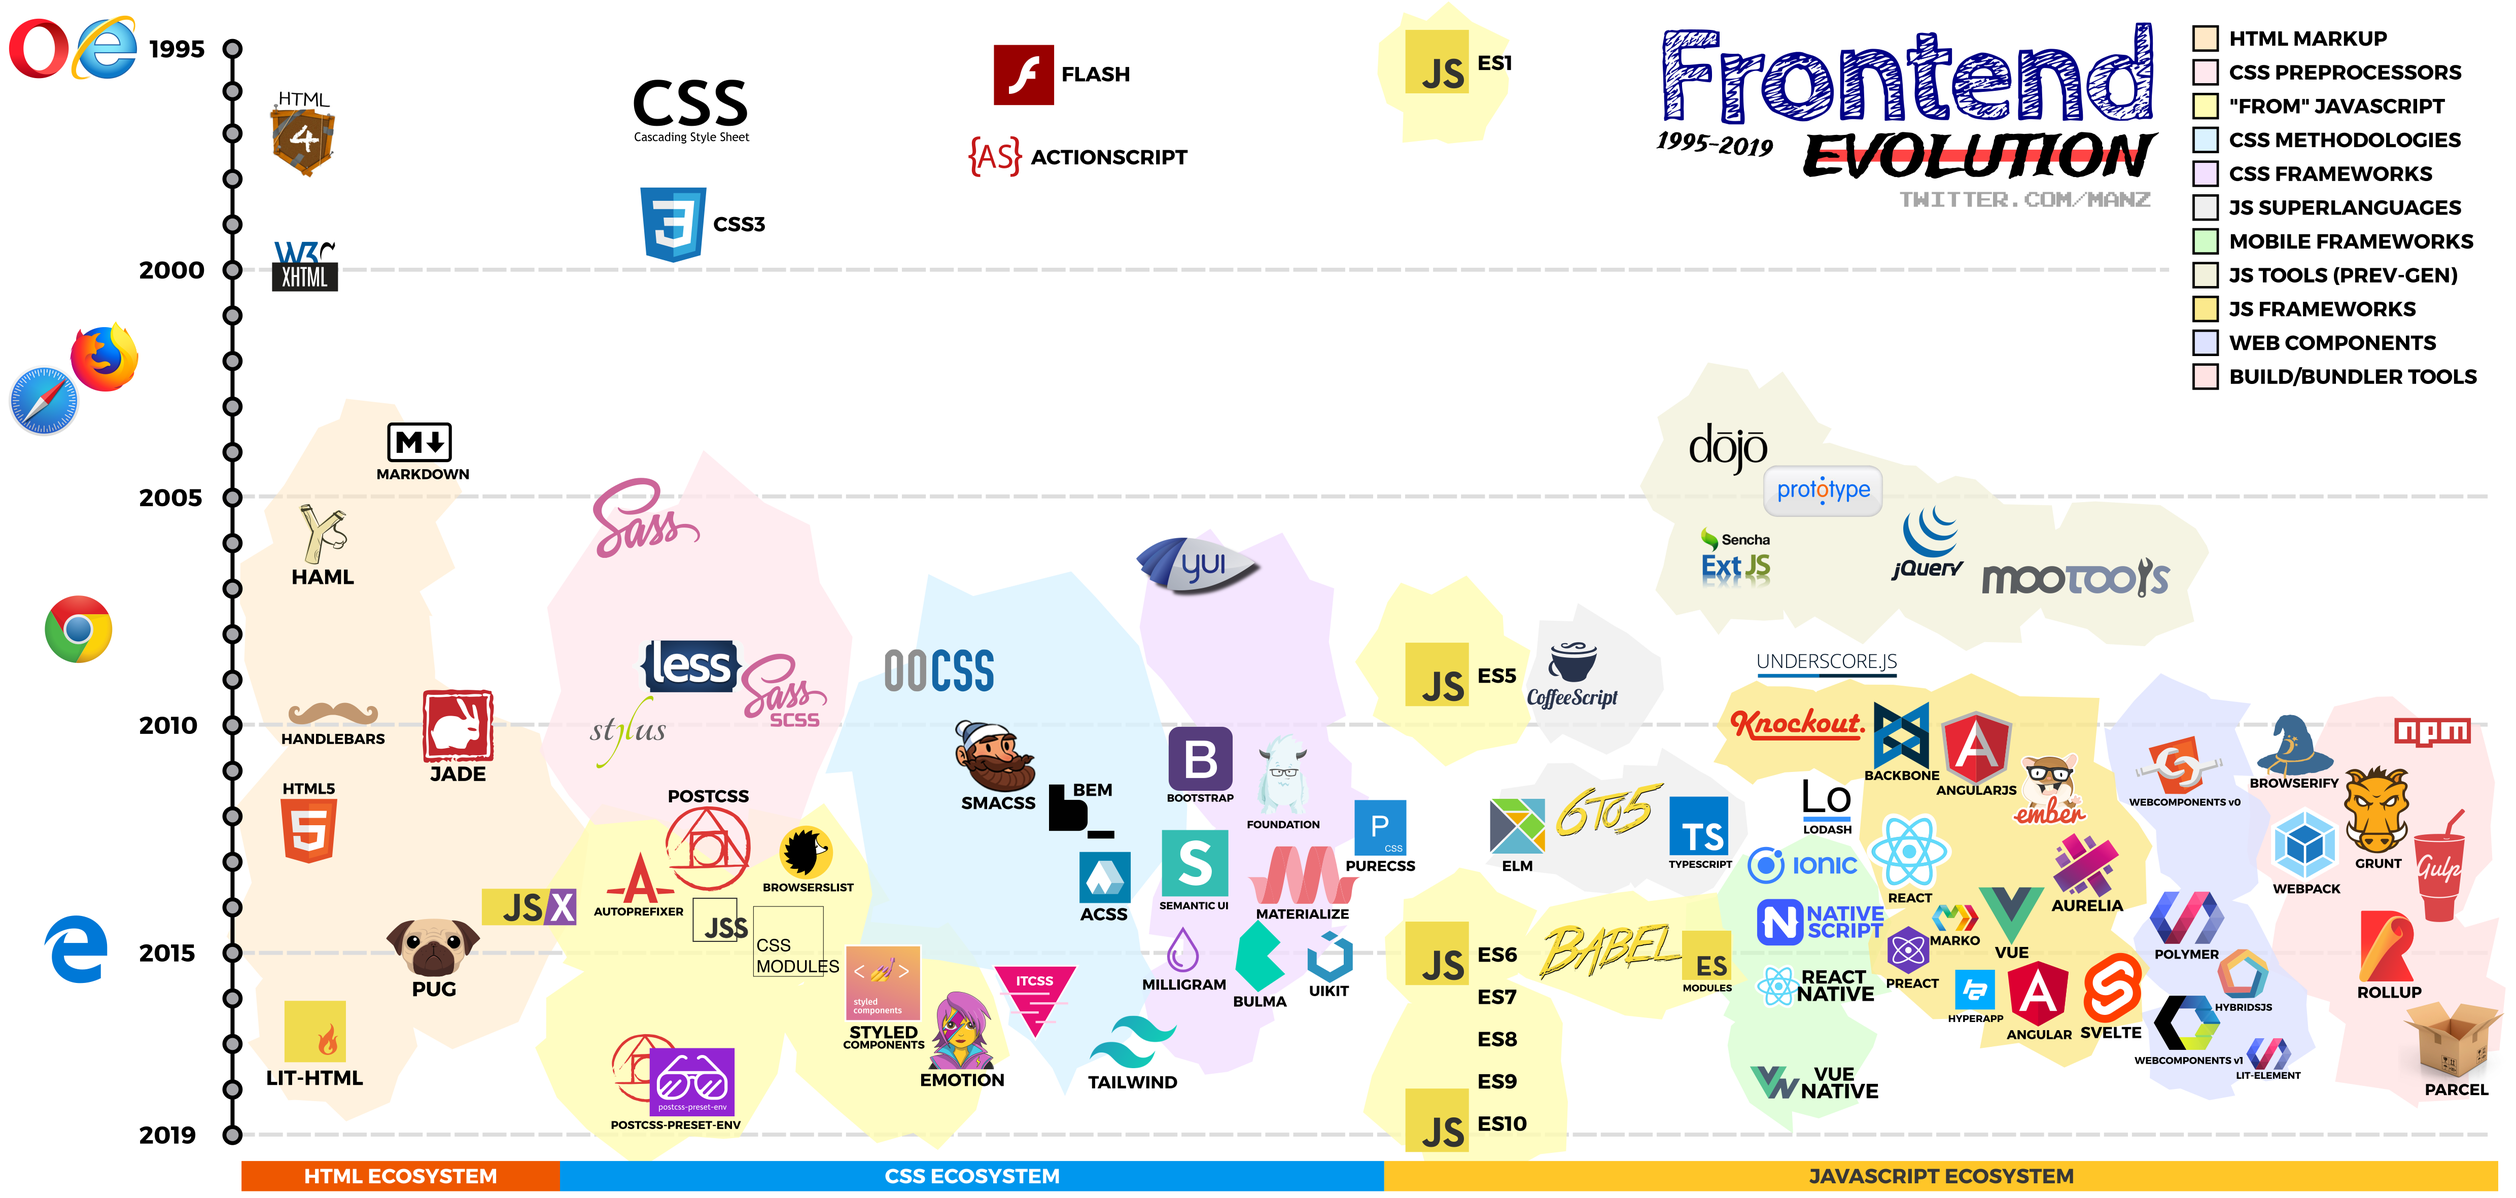
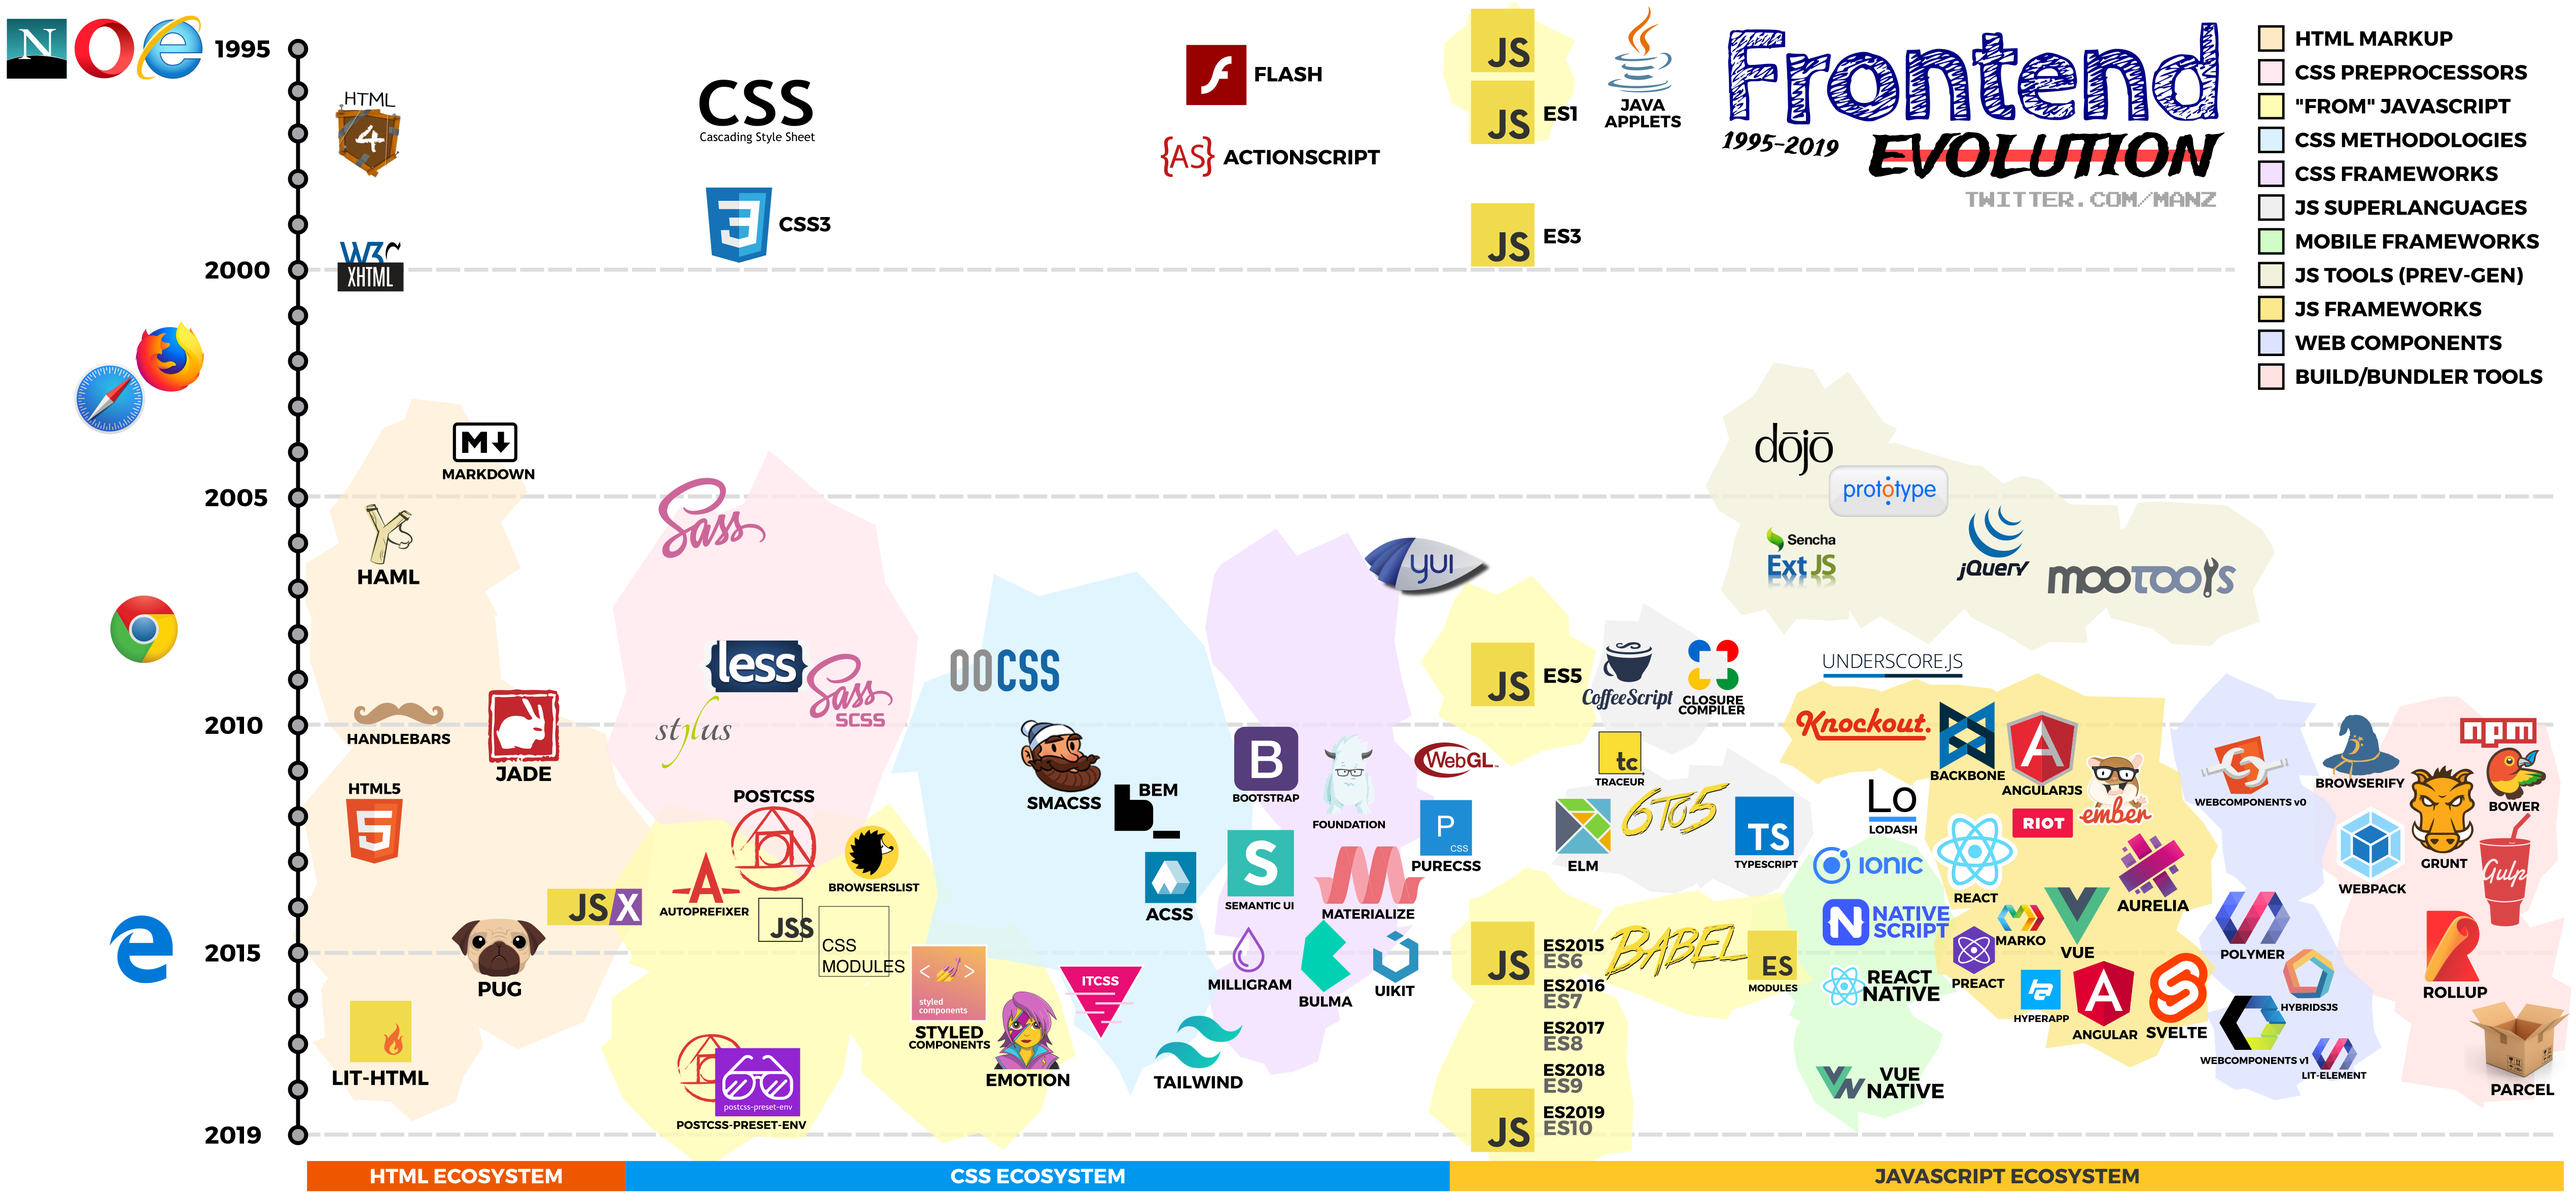
More changes

diff --git a/README.md b/README.md
@@ -4,6 +4,7 @@
 
 ### 🌐 Browsers
 
+- [1994] Netscape Navigator [http://browser.netscape.com/](https://web.archive.org/web/20070630143634/http://browser.netscape.com/)
 - [1995] Internet Explorer <https://www.microsoft.com/es-es/download/internet-explorer.aspx>
 - [1995] Opera <https://www.opera.com/es>
 - [2002] Mozilla Firefox <https://www.mozilla.org/en-US/firefox/new/>
@@ -33,7 +34,6 @@
 - [1996] CSS1 <https://www.w3.org/TR/REC-CSS1/>
 - [1999] CSS3 <https://www.w3.org/TR/CSS/>
 - [1996] Flash <https://www.adobe.com/es/products/flashplayer.html>
-- [1997] ActionScript <https://www.adobe.com/devnet/actionscript.html>
 
 ### CSS Preprocessors
 
@@ -75,15 +75,25 @@
 
 ## 💻 Javascript Ecosystem
 
+### Third-party & Others
+
+- [1995] Java Applets* <https://www.java.com/es/>
+- [1997] ActionScript <https://www.adobe.com/devnet/actionscript.html>
+- [2011] WebGL <https://www.khronos.org/webgl/>
+
+\* *Not Javascript*
+
 ### Javascript vanilla
 
-- [1995] Javascript [ES1 Edition](https://www.ecma-international.org/publications/files/ECMA-ST-ARCH/ECMA-262,%201st%20edition,%20June%201997.pdf)
+- [1995] Javascript *Not standard yet*
+- [1997] Javascript [ES1 Edition](https://www.ecma-international.org/publications/files/ECMA-ST-ARCH/ECMA-262,%201st%20edition,%20June%201997.pdf)
+- [1999] Javascript [ES3 Edition](https://www-archive.mozilla.org/js/language/E262-3.pdf)
 - [2009] Javascript [ES5 Edition](https://www.ecma-international.org/publications/files/ECMA-ST-ARCH/ECMA-262%205th%20edition%20December%202009.pdf)
-- [2015] Javascript [ES6 Edition](https://www.ecma-international.org/ecma-262/6.0/index.html)
-- [2016] Javascript [ES7 Edition](https://www.ecma-international.org/ecma-262/7.0/index.html)
-- [2015] Javascript [ES8 Edition](https://www.ecma-international.org/ecma-262/8.0/index.html)
-- [2016] Javascript [ES9 Edition](https://www.ecma-international.org/ecma-262/9.0/index.html)
-- [2017] Javascript [ES10 Edition](https://www.ecma-international.org/publications/standards/Ecma-262.htm)
+- [2015] Javascript [ES2015/ES6 Edition](https://www.ecma-international.org/ecma-262/6.0/index.html)
+- [2016] Javascript [ES2016/ES7 Edition](https://www.ecma-international.org/ecma-262/7.0/index.html)
+- [2015] Javascript [ES2017/ES8 Edition](https://www.ecma-international.org/ecma-262/8.0/index.html)
+- [2016] Javascript [ES2018/ES9 Edition](https://www.ecma-international.org/ecma-262/9.0/index.html)
+- [2017] Javascript [ES2019/ES10 Edition](https://www.ecma-international.org/publications/standards/Ecma-262.htm)
 
 ### JS libraries
 
@@ -98,6 +108,8 @@
 ### JS superlanguage & transpilers
 
 - [2009] CoffeeScript <https://coffeescript.org/>
+- [2009] Closure Compiler <https://developers.google.com/closure/compiler/>
+- [2011] Traceur <https://github.com/google/traceur-compiler>
 - [2012] Elm <https://elm-lang.org/>
 - [2012] 6to5 transpiler <https://github.com/6to5>
 - [2012] Typescript <https://www.typescriptlang.org/>
@@ -109,6 +121,7 @@
 - [2010] Backbone <https://backbonejs.org/>
 - [2010] AngularJS <https://angularjs.org/>
 - [2011] EmberJS <https://emberjs.com/>
+- [2013] RiotJS <https://riot.js.org/>
 - [2013] React <https://reactjs.org/>
 - [2014] Aurelia <https://aurelia.io/>
 - [2014] Marko <https://markojs.com/>
@@ -137,6 +150,7 @@
 
 - [2010] NPM <https://www.npmjs.com/>
 - [2010] Browserify <http://browserify.org/>
+- [2012] Bower <https://bower.io/>
 - [2012] Grunt <https://gruntjs.com/>
 - [2013] Webpack <https://webpack.js.org/>
 - [2014] Gulp <https://gulpjs.com/>
